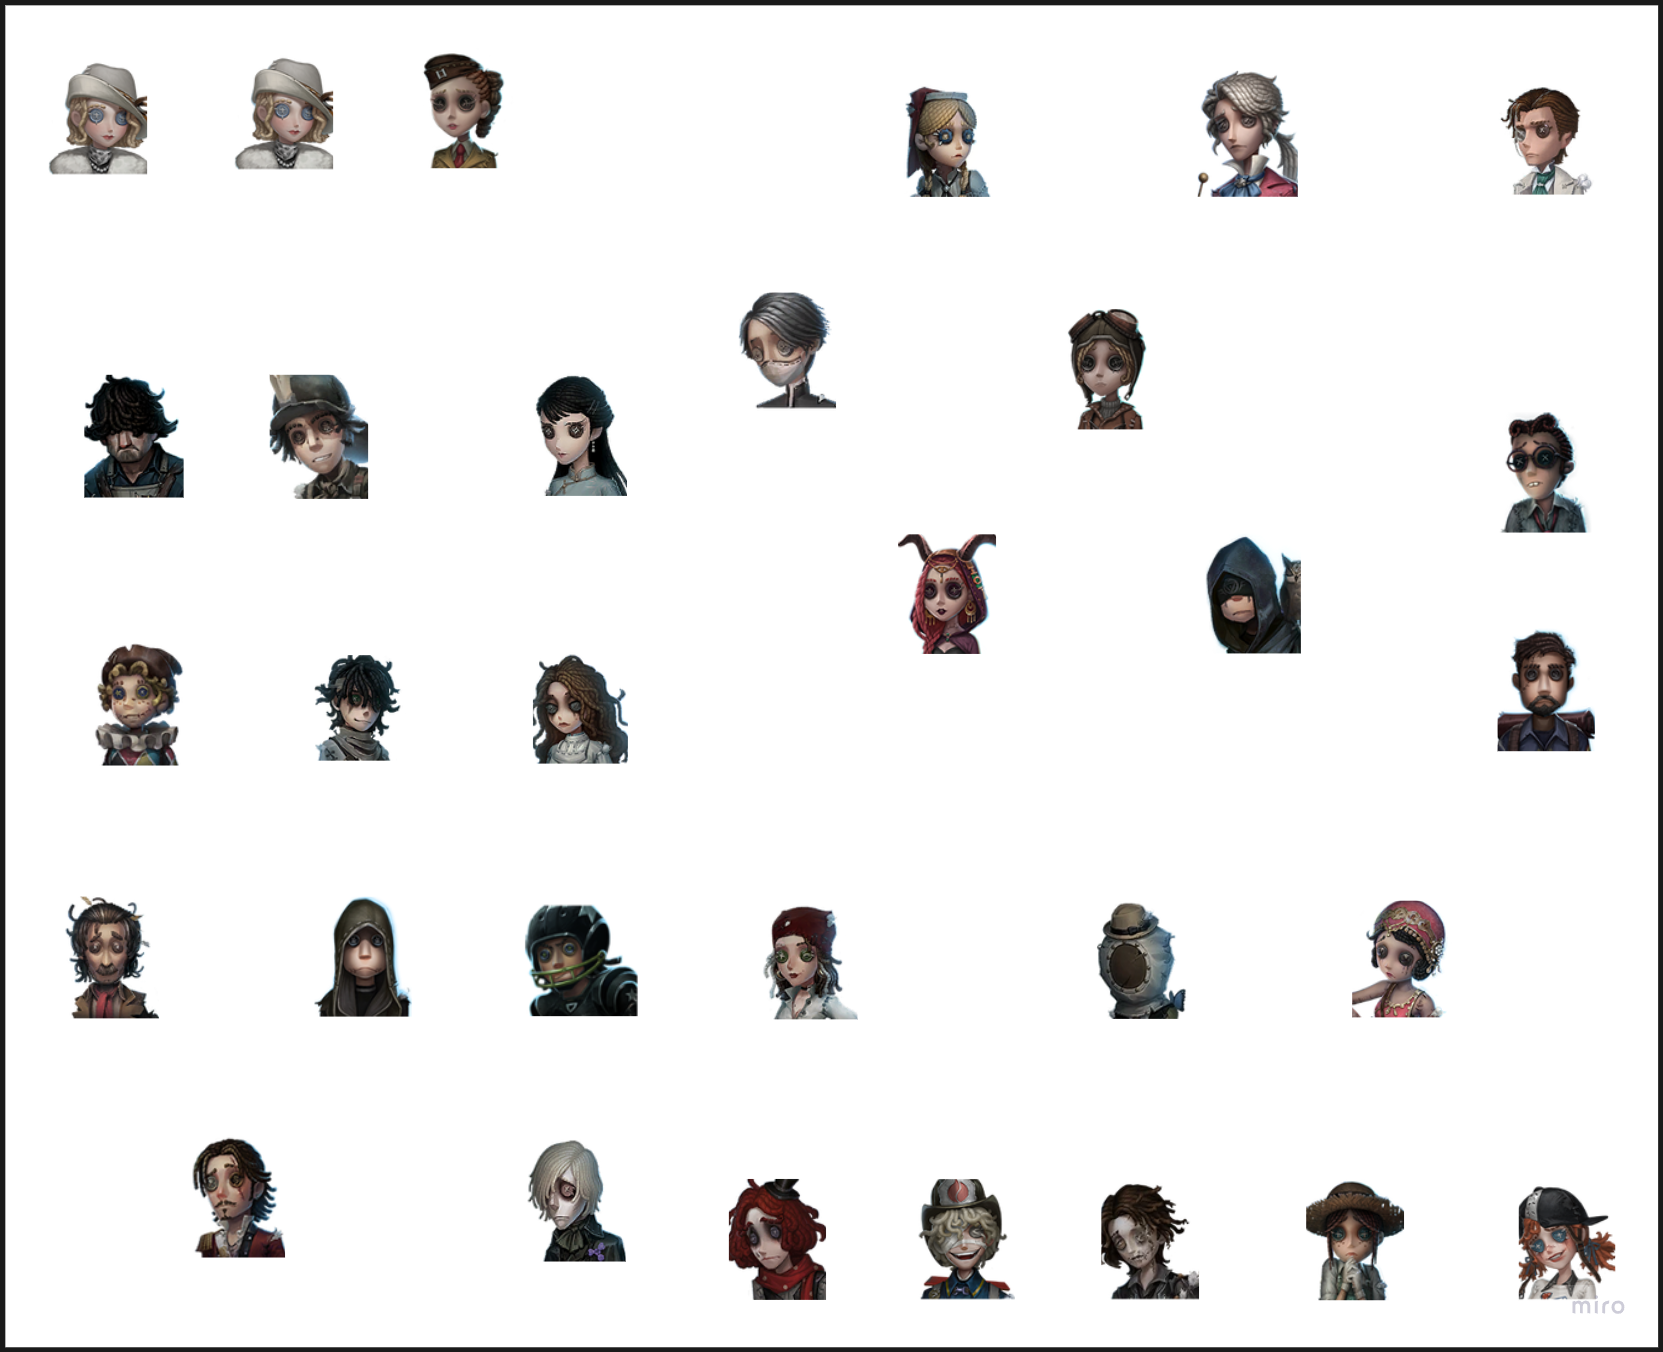
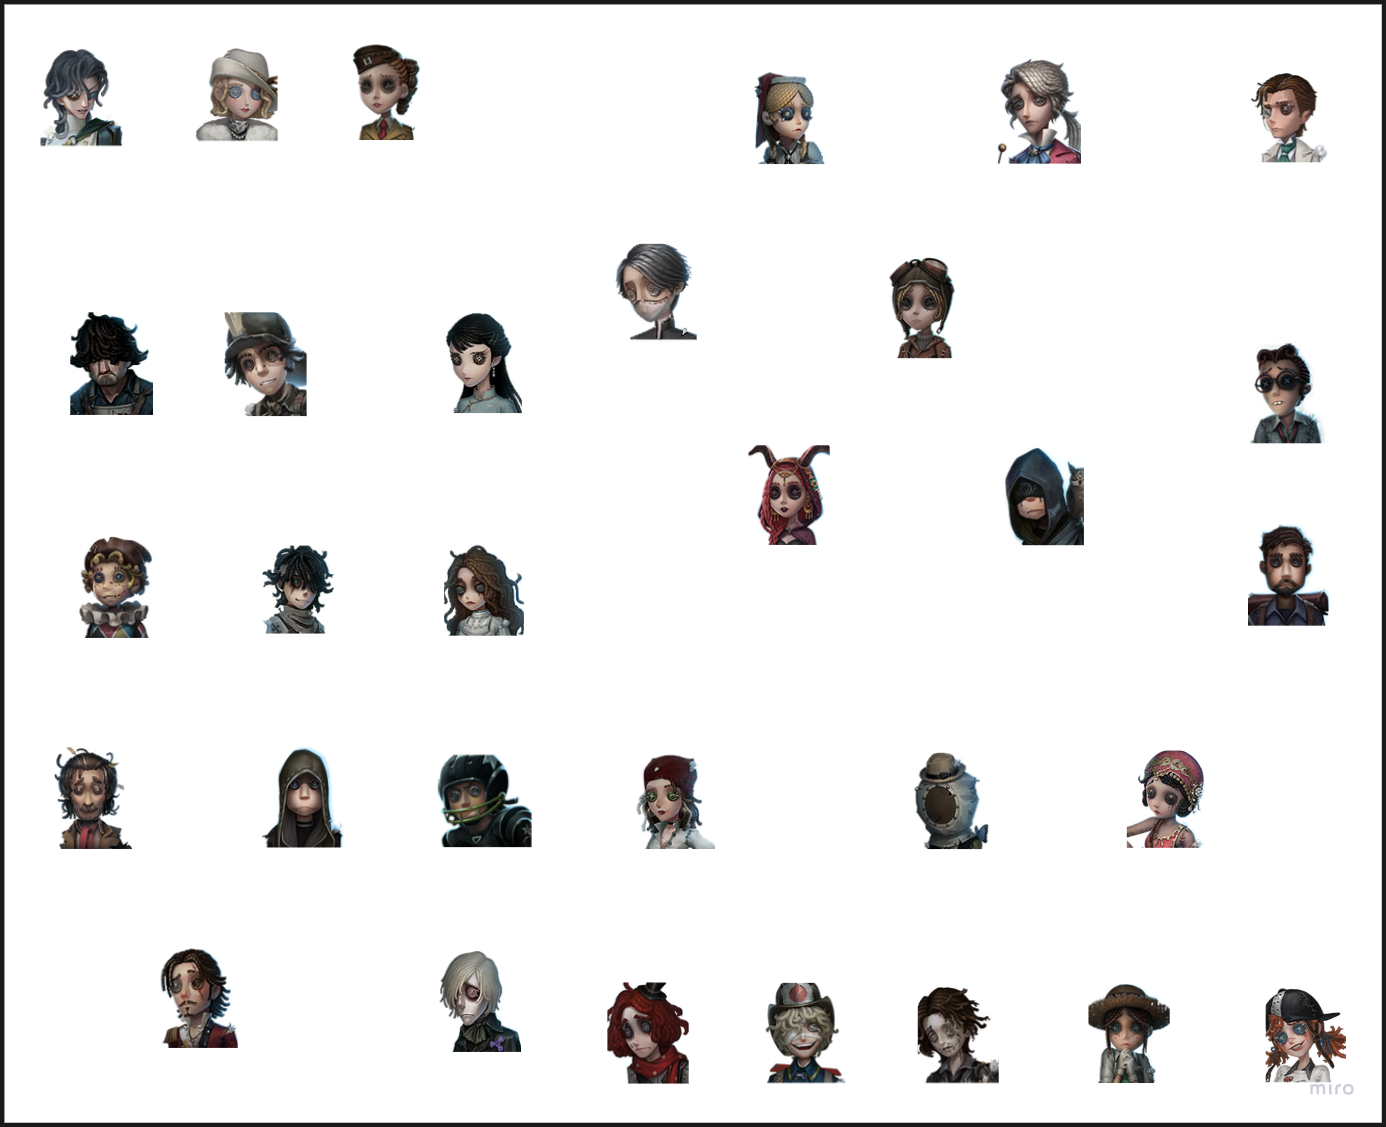
fixed knight image, added injured pictures loading code

diff --git a/src/App.js b/src/App.js
@@ -20,6 +20,7 @@ const KiterList = [];
 const DecodeList = [];
 const OtherList = [];
 const UselessList = [];
+const InjuredStateList = [];
 const Draggables = [];//{id: 1, url: "https://lh4.googleusercontent.com/-8tqTFxi2ebU/Ufo4j_thf7I/AAAAAAAADFM/_ZBQctm9e8E/w270-h203-no/flower.jpg"}];
 //const LayersList = [];
 
@@ -27,14 +28,19 @@ function importAll(r) {
     return r.keys().map(r);
 }
 
-const supports = importAll(require.context('./images/survivors/supports', false, /\.(png|jpe?g|svg)$/));
 const rescuers = importAll(require.context('./images/survivors/rescuers', false, /\.(png|jpe?g|svg)$/));
 
-const harassers = importAll(require.context('./images/survivors/harassers', false, /\.(png|jpe?g|svg)$/));
-const kiters = importAll(require.context('./images/survivors/kiters', false, /\.(png|jpe?g|svg)$/));
-const decoders = importAll(require.context('./images/survivors/decoders', false, /\.(png|jpe?g|svg)$/));
 const others = importAll(require.context('./images/survivors/others', false, /\.(png|jpe?g|svg)$/));
+const kiters = importAll(require.context('./images/survivors/kiters', false, /\.(png|jpe?g|svg)$/));
+const harassers = importAll(require.context('./images/survivors/harassers', false, /\.(png|jpe?g|svg)$/));
+const supports = importAll(require.context('./images/survivors/supports', false, /\.(png|jpe?g|svg)$/));
+
+const decoders = importAll(require.context('./images/survivors/decoders', false, /\.(png|jpe?g|svg)$/));
 const useless = importAll(require.context('./images/survivors/useless', false, /\.(png|jpe?g|svg)$/));
+const InjuredState = importAll(require.context('./images/survivors/InjuredState', false, /\.(png|jpe?g|svg)$/));
+
+
+
 const  hunters_s = importAll(require.context('./images/hunters/s_tier', false, /\.(png|jpe?g|svg)$/));
 const  hunters_a = importAll(require.context('./images/hunters/a_tier', false, /\.(png|jpe?g|svg)$/));
 const hunters_b = importAll(require.context('./images/hunters/b_tier', false, /\.(png|jpe?g|svg)$/));
@@ -87,6 +93,10 @@ useless.forEach(filename => {
   count++;
 });
 
+InjuredState.forEach(filename => {
+  InjuredStateList.push({id: count, url: filename});
+  count++;
+});
 
 hunters_s.forEach(filename => {
   PictureList.push({id: count, url: filename, type: "hunter_s", isUsed: false });

diff --git a/src/components/DrawingMethods.js b/src/components/DrawingMethods.js
@@ -67,7 +67,7 @@ const charctercolisionsmap = {
   "Dancer":       {"id": "Dancer",        "x1": 702, "x2": 745, "y1": 471, "y2": 524,"R":5,"RR":5},
   "FirstOfficer": {"id": "FirstOfficer",  "x1": 105, "x2": 149, "y1": 592, "y2": 646,"R":5,"RR":5},
   "Gravekeeper":  {"id": "Gravekeeper",   "x1": 279, "x2": 323, "y1": 595, "y2": 649,"R":5,"RR":5},
-  // "Professor":    {"id": "Professor",     "x1": 398, "x2": 441, "y1": 593, "y2": 645,"R":5,"RR":5},      
+  "Professor":    {"id": "Professor",     "x1": 398, "x2": 441, "y1": 593, "y2": 645,"R":5,"RR":5},  // <---- GONE   
   "Puppeteer":    {"id": "Puppeteer",     "x1": 572, "x2": 617, "y1": 615, "y2": 667,"R":5,"RR":5},
   "Gardener":     {"id": "Gardener",      "x1": 678, "x2": 723, "y1": 614, "y2": 670,"R":5,"RR":5},
   "Cheerleader":  {"id": "Cheerleader",   "x1": 787, "x2": 825, "y1": 615, "y2": 674,"R":5,"RR":5},
